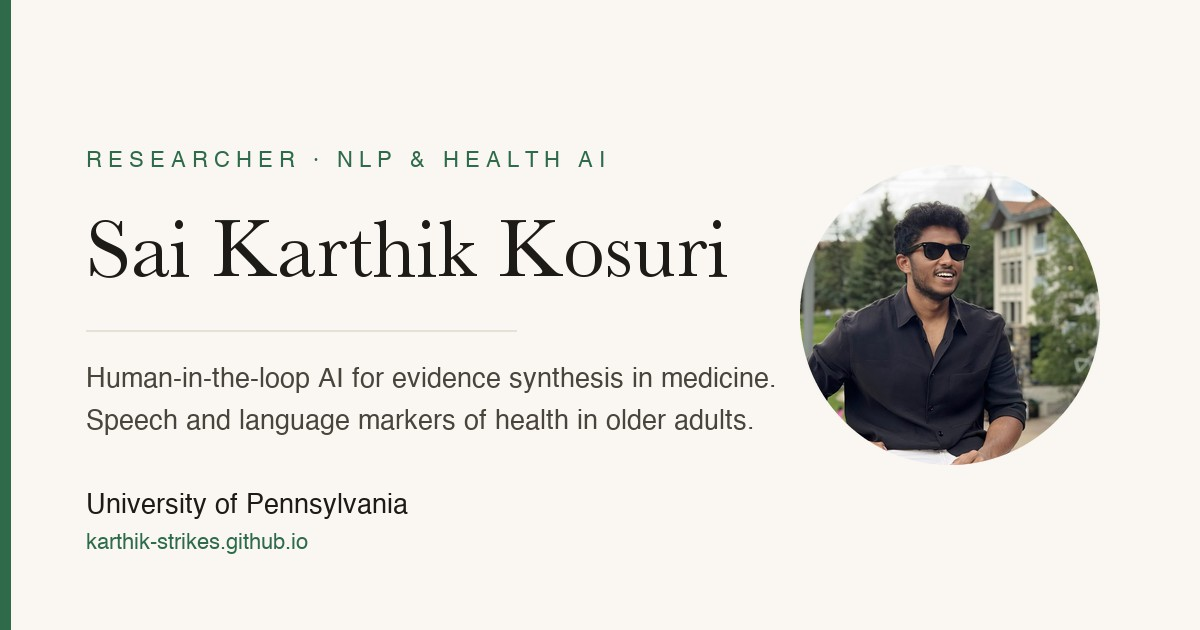
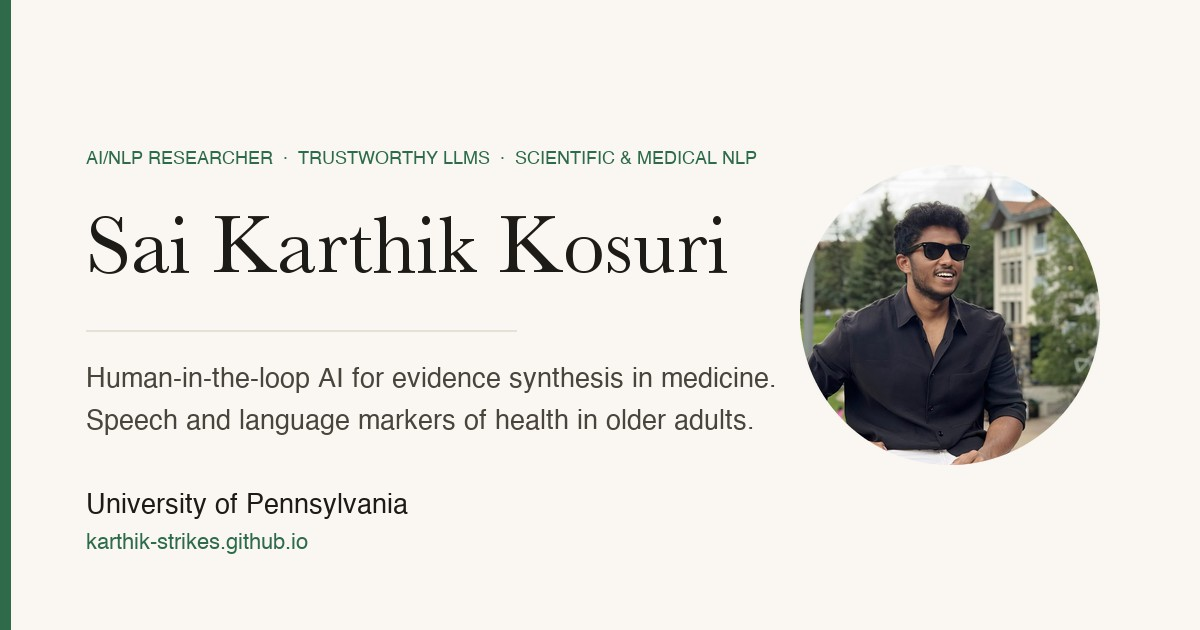
New headline: AI/NLP Researcher, Trustworthy LLMs, Scientific & Medical NLP
Stacked in the sidebar rather than pipe-separated — at 200px the pipes
land at line ends and read as stray punctuation.

Also updates the page title, social card titles, the JSON-LD jobTitle and
knowsAbout, and regenerates og-card.jpg, whose eyebrow still carried the
old wording. Eyebrow auto-fitted to 18px to stay clear of the photo.

Changed region(s): [[0.185, 0.3317, 0.6167, 0.4524], [0.0617, 0.2413, 0.6475, 0.2714], [0.0617, 0.3317, 0.1542, 0.4524]]

diff --git a/index.html b/index.html
@@ -3,14 +3,14 @@
 <head>
 <meta charset="utf-8">
 <meta name="viewport" content="width=device-width, initial-scale=1">
-<title>Sai Karthik Kosuri &mdash; NLP &amp; Health AI</title>
+<title>Sai Karthik Kosuri &mdash; AI/NLP Researcher</title>
 <meta name="description" content="Karthik Kosuri builds human-in-the-loop AI for evidence synthesis in medicine at the University of Pennsylvania, and studies what speech and language reveal about health in older adults. Applying to PhD programs in NLP and health AI.">
 <meta name="author" content="Sai Karthik Kosuri">
 <link rel="canonical" href="https://karthik-strikes.github.io/">
 <meta name="theme-color" content="#faf7f2">
 
 <meta property="og:type" content="profile">
-<meta property="og:title" content="Sai Karthik Kosuri &mdash; NLP &amp; Health AI">
+<meta property="og:title" content="Sai Karthik Kosuri &mdash; AI/NLP Researcher, Trustworthy LLMs">
 <meta property="og:description" content="Karthik Kosuri builds human-in-the-loop AI for evidence synthesis in medicine at the University of Pennsylvania, and studies what speech and language reveal about health in older adults. Applying to PhD programs in NLP and health AI.">
 <meta property="og:url" content="https://karthik-strikes.github.io/">
 <meta property="og:image" content="https://karthik-strikes.github.io/assets/og-card.jpg">
@@ -18,7 +18,7 @@
 <meta property="og:image:height" content="630">
 <meta property="og:image:alt" content="Sai Karthik Kosuri, Researcher in NLP and Health AI, University of Pennsylvania">
 <meta name="twitter:card" content="summary_large_image">
-<meta name="twitter:title" content="Sai Karthik Kosuri &mdash; NLP &amp; Health AI">
+<meta name="twitter:title" content="Sai Karthik Kosuri &mdash; AI/NLP Researcher, Trustworthy LLMs">
 <meta name="twitter:description" content="Karthik Kosuri builds human-in-the-loop AI for evidence synthesis in medicine at the University of Pennsylvania, and studies what speech and language reveal about health in older adults. Applying to PhD programs in NLP and health AI.">
 <meta name="twitter:image" content="https://karthik-strikes.github.io/assets/og-card.jpg">
 
@@ -53,7 +53,7 @@
     <img class="side-photo" src="assets/headshot.jpg" width="160" height="160" alt="Portrait of Sai Karthik Kosuri">
     <div>
       <div class="side-name">Sai Karthik<br>Kosuri</div>
-      <div class="side-role">Researcher<br>NLP &amp; Health AI</div>
+      <div class="side-role">AI/NLP Researcher<br>Trustworthy LLMs<br>Scientific &amp; Medical NLP</div>
       <a class="side-mail" href="mailto:karthik9@upenn.edu">karthik9@upenn.edu</a>
       <ul class="side-links">
         <li><a href="https://scholar.google.com/citations?user=XbW94m8AAAAJ" target="_blank" rel="noopener noreferrer">Google Scholar</a></li>
@@ -111,13 +111,13 @@
   "url": "https://karthik-strikes.github.io/",
   "image": "https://karthik-strikes.github.io/assets/headshot.jpg",
   "email": "mailto:karthik9@upenn.edu",
-  "jobTitle": "Researcher",
+  "jobTitle": "AI/NLP Researcher",
   "worksFor": { "@type": "Organization", "name": "University of Pennsylvania" },
   "alumniOf": [
     { "@type": "CollegeOrUniversity", "name": "Syracuse University" },
     { "@type": "CollegeOrUniversity", "name": "Vellore Institute of Technology" }
   ],
-  "knowsAbout": ["Natural Language Processing", "Health AI", "Evidence Synthesis", "Systematic Reviews", "Speech and Language Analysis"],
+  "knowsAbout": ["Natural Language Processing", "Trustworthy Large Language Models", "Scientific and Medical NLP", "Evidence Synthesis", "Systematic Reviews", "Speech and Language Analysis"],
   "sameAs": [
     "https://scholar.google.com/citations?user=XbW94m8AAAAJ",
     "https://github.com/karthik-strikes",

diff --git a/experience.html b/experience.html
@@ -53,7 +53,7 @@
     <img class="side-photo" src="assets/headshot.jpg" width="160" height="160" alt="Portrait of Sai Karthik Kosuri">
     <div>
       <div class="side-name">Sai Karthik<br>Kosuri</div>
-      <div class="side-role">Researcher<br>NLP &amp; Health AI</div>
+      <div class="side-role">AI/NLP Researcher<br>Trustworthy LLMs<br>Scientific &amp; Medical NLP</div>
       <a class="side-mail" href="mailto:karthik9@upenn.edu">karthik9@upenn.edu</a>
       <ul class="side-links">
         <li><a href="https://scholar.google.com/citations?user=XbW94m8AAAAJ" target="_blank" rel="noopener noreferrer">Google Scholar</a></li>

diff --git a/publications.html b/publications.html
@@ -53,7 +53,7 @@
     <img class="side-photo" src="assets/headshot.jpg" width="160" height="160" alt="Portrait of Sai Karthik Kosuri">
     <div>
       <div class="side-name">Sai Karthik<br>Kosuri</div>
-      <div class="side-role">Researcher<br>NLP &amp; Health AI</div>
+      <div class="side-role">AI/NLP Researcher<br>Trustworthy LLMs<br>Scientific &amp; Medical NLP</div>
       <a class="side-mail" href="mailto:karthik9@upenn.edu">karthik9@upenn.edu</a>
       <ul class="side-links">
         <li><a href="https://scholar.google.com/citations?user=XbW94m8AAAAJ" target="_blank" rel="noopener noreferrer">Google Scholar</a></li>

diff --git a/research.html b/research.html
@@ -53,7 +53,7 @@
     <img class="side-photo" src="assets/headshot.jpg" width="160" height="160" alt="Portrait of Sai Karthik Kosuri">
     <div>
       <div class="side-name">Sai Karthik<br>Kosuri</div>
-      <div class="side-role">Researcher<br>NLP &amp; Health AI</div>
+      <div class="side-role">AI/NLP Researcher<br>Trustworthy LLMs<br>Scientific &amp; Medical NLP</div>
       <a class="side-mail" href="mailto:karthik9@upenn.edu">karthik9@upenn.edu</a>
       <ul class="side-links">
         <li><a href="https://scholar.google.com/citations?user=XbW94m8AAAAJ" target="_blank" rel="noopener noreferrer">Google Scholar</a></li>
